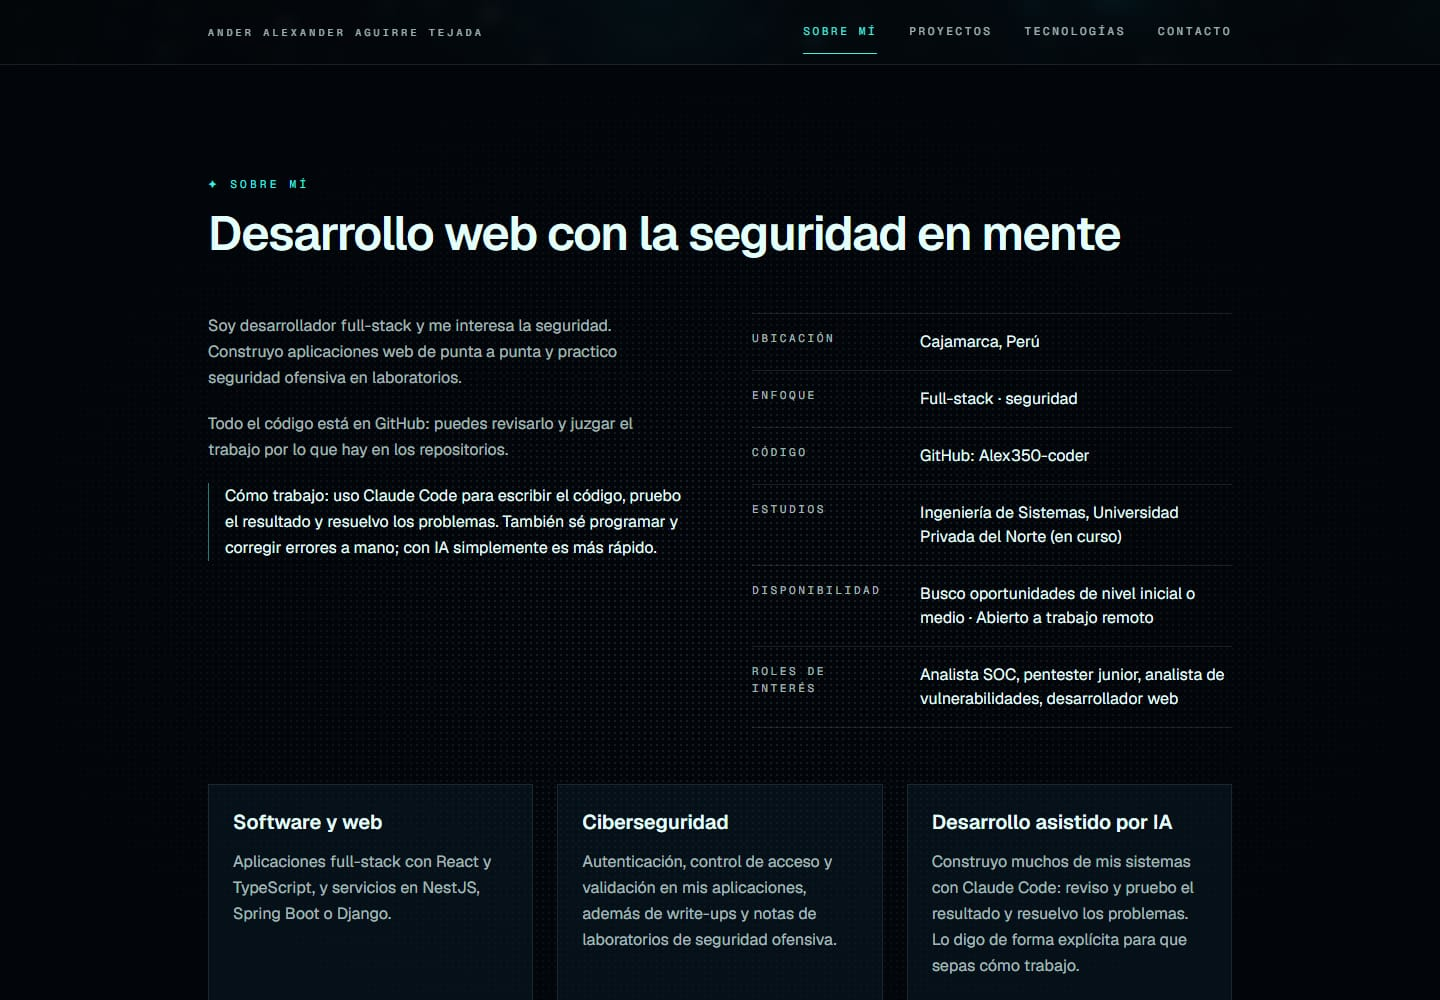
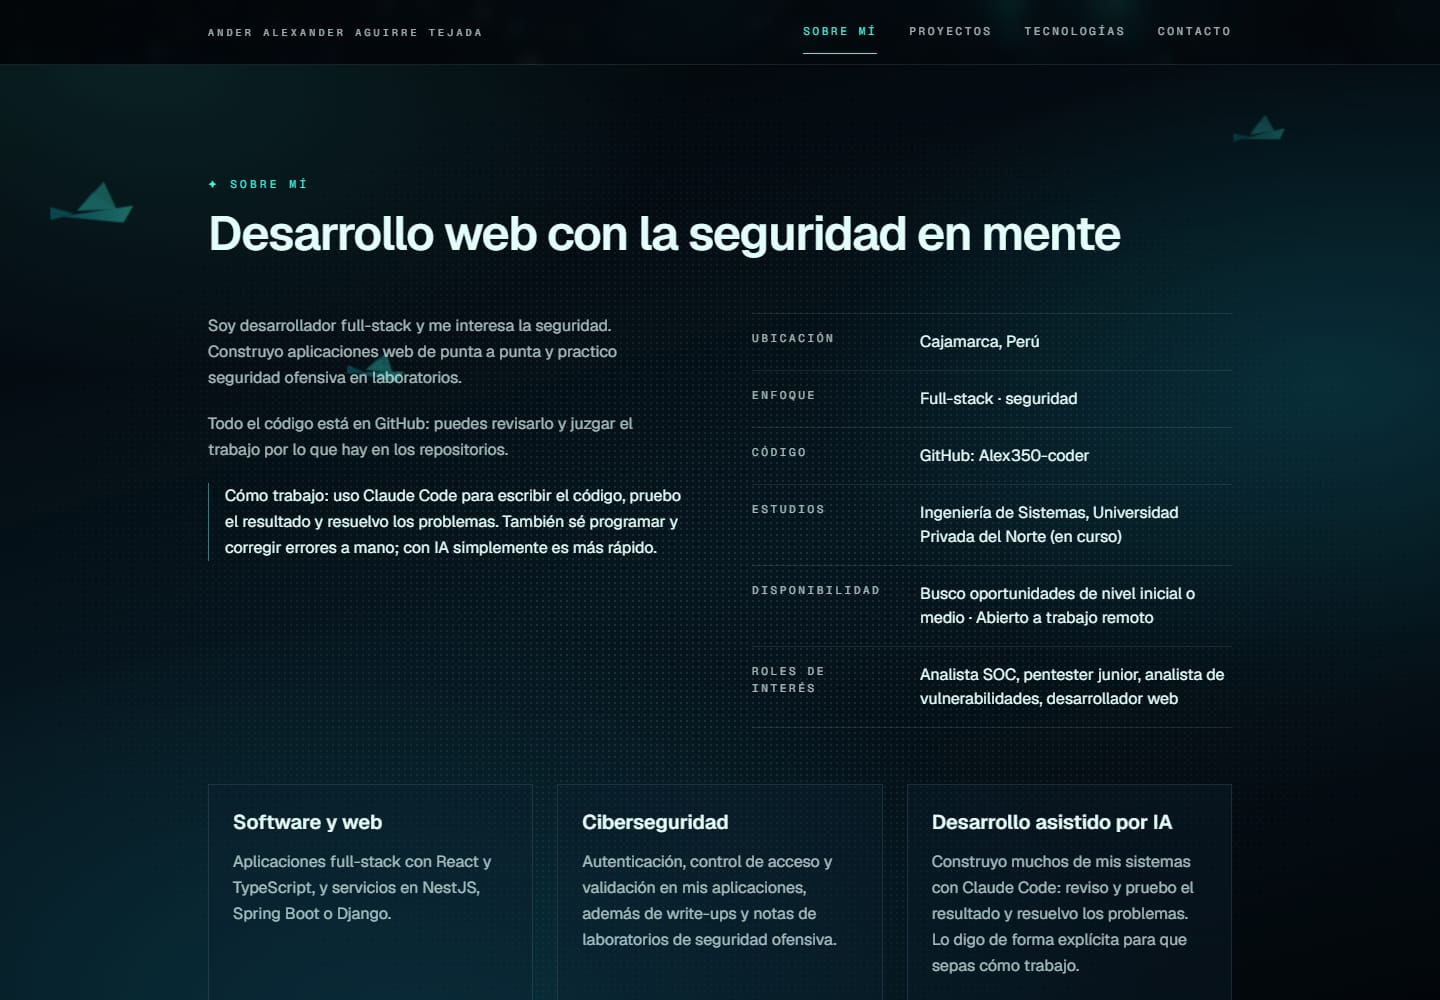
docs: refresh README screenshots
Recaptured from the production build with the new background (colour gradient and origami cranes);
README mentions the background and the current test count.

Claude-Session: https://claude.ai/code/session_01TiwSZaXYbsHQ3xD6GRumre

diff --git a/README.md b/README.md
@@ -8,7 +8,7 @@
 ![TypeScript](https://img.shields.io/badge/TypeScript-estricto-3178c6?logo=typescript&logoColor=white)
 ![Vite](https://img.shields.io/badge/Vite-8-646cff?logo=vite&logoColor=white)
 ![Tailwind CSS](https://img.shields.io/badge/Tailwind-v4-38bdf8?logo=tailwindcss&logoColor=white)
-![Tests](https://img.shields.io/badge/tests-459%20unitarios%20·%2065%20e2e-3fe0c5)
+![Tests](https://img.shields.io/badge/tests-464%20unitarios%20·%2065%20e2e-3fe0c5)
 ![WCAG](https://img.shields.io/badge/accesibilidad-WCAG%202.2%20AA-3fe0c5)
 
 ![Hero del portafolio: nebulosa de puntos semitono en verde azulado](.github/readme/hero.jpg)
@@ -29,6 +29,7 @@ La pieza visual es un **Hero en WebGL2** (`HalftoneNebula`, preset `abyssal`): u
 - **Transparencia sobre la IA.** Construyo muchos sistemas con Claude Code: reviso y pruebo el resultado y resuelvo los problemas. También sé programar y corregir errores a mano; con IA simplemente es más rápido. El sitio lo dice de forma explícita.
 - **Estático primero.** No hay backend ni formulario: el contacto es un `mailto:` con botón de copiar. `server/` existe vacío y diferido a propósito.
 - **Solo el Hero usa WebGL.** El resto son derivados en CSS (trama de puntos, brillo que sigue al puntero, aparición progresiva), con respeto a `prefers-reduced-motion`.
+- **Un fondo con vida, sin peso.** Un degradado fijo con tonos de la paleta (menta, verde azulado, azul profundo) y unas pocas grullas de origami que cruzan despacio por detrás del contenido, solo con CSS. Se apagan con movimiento reducido y se pausan con el botón del Hero.
 
 ## Capturas
 
@@ -135,7 +136,7 @@ npm run dev
 
 | | |
 |---|---|
-| Pruebas unitarias y de componentes | 459 en 63 archivos, cobertura de ~98 % (sin el Hero WebGL, cubierto por un test e2e) |
+| Pruebas unitarias y de componentes | 464 en 64 archivos, cobertura de ~98 % (sin el Hero WebGL, cubierto por un test e2e) |
 | Pruebas e2e | 65 en Chromium: navegación, Hero, proyectos, detalle, contacto, accesibilidad |
 | Lighthouse (build de producción, página de detalle, Fase 4) | Escritorio: rendimiento 100, accesibilidad 100, buenas prácticas 100 · Móvil: rendimiento 97 |
 | JavaScript inicial | ~141 KB comprimido; el reparto por rutas llega en la Fase 6 |
